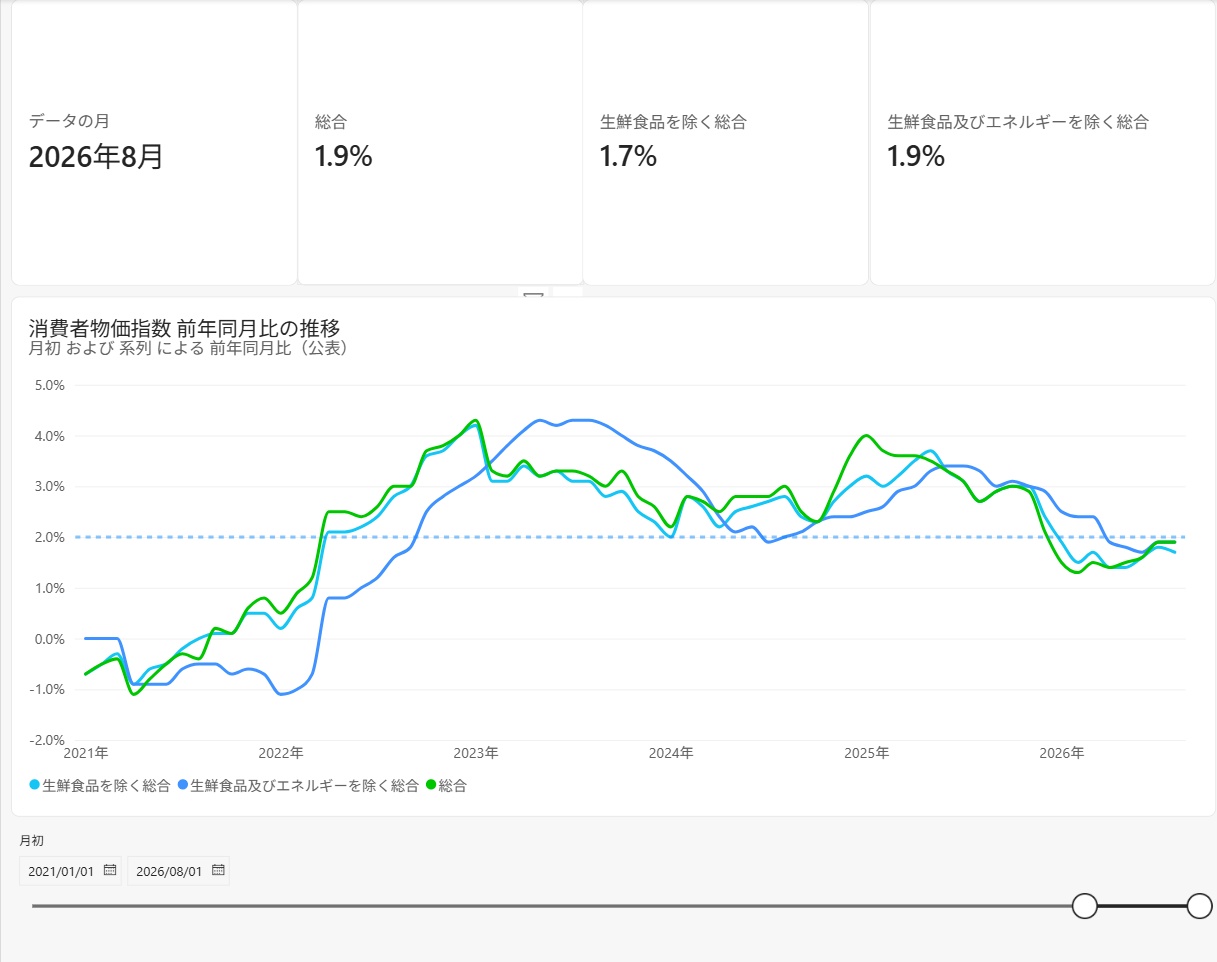
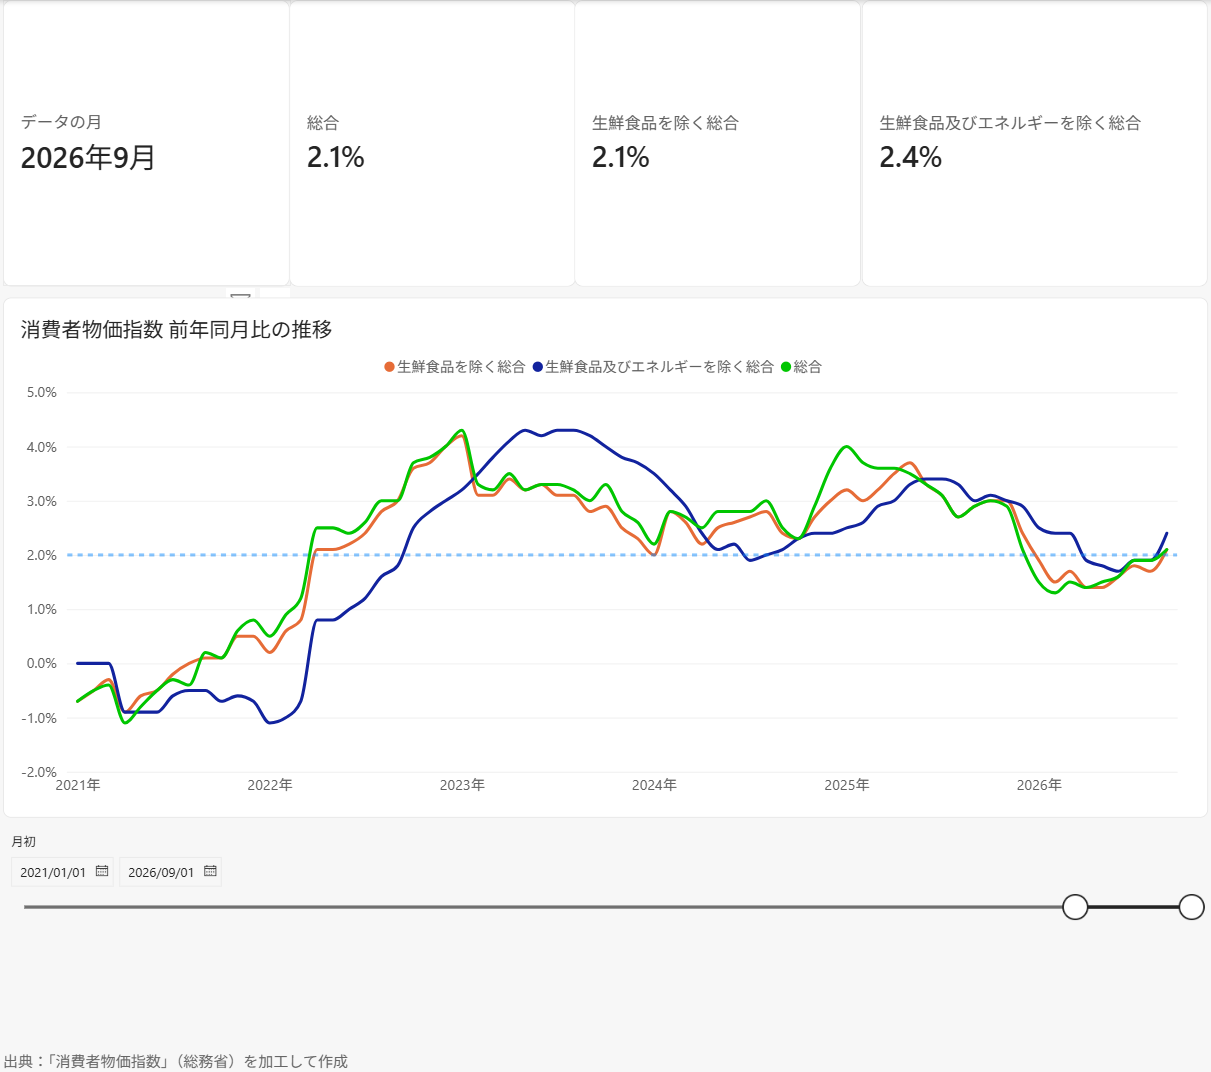
READMEと画面画像を2026年9月分に更新

diff --git a/README.md b/README.md
@@ -18,24 +18,26 @@
 
 ![何が物価を動かしたか](images/page2.png)
 
-- 最新月（2026年8月）の総合の前年同月比を、10大費目の寄与度に分解（ウォーターフォール図）
-- 2026年1月〜8月の寄与度の月次推移（積み上げ縦棒）
+- 最新月（2026年9月）の総合の前年同月比を、10大費目の寄与度に分解（ウォーターフォール図）
+- 2026年1月〜9月の寄与度の月次推移（積み上げ縦棒）
 
-### 読み取れること（2026年8月分）
+### 読み取れること（2026年9月分）
 
-- 総合の前年同月比1.9%のうち、食料の寄与が0.88ポイントで約半分を占める
-- 教育（−0.12ポイント）と光熱・水道（−0.02ポイント）は押し下げ方向に寄与
-- 2026年2月から8月にかけての上昇率の拡大は、主に光熱・水道のマイナス寄与の縮小（約−0.40 → −0.02ポイント）によるもので、交通・通信、家具・家事用品の寄与拡大も加わっている
+- 総合の前年同月比は2.1%。寄与が最も大きいのは食料（0.77ポイント）だが、8月（0.88ポイント）からは縮小した
+- 8月（1.9%）からの上昇は、教養娯楽（0.20 → 0.35ポイント）と光熱・水道（−0.02 → +0.06ポイント）の寄与拡大が中心
+- 総合指数は8月・9月とも102.2で横ばいだった。前年同月の指数が2025年8月の100.3から2025年9月の100.1に下がっていたため、前年同月比は上昇している
+- 光熱・水道の寄与は2026年2月の−0.40ポイントから9月には+0.06ポイントまで戻り、年初からの上昇率の拡大の主因になっている
+- 教育は引き続き押し下げ方向（−0.11ポイント）
 
 ## データ
 
 | ファイル | 内容 | 期間 |
 | --- | --- | --- |
-| `zmi2025s.csv` | 中分類指数（全国・月次、2025年=100） | 1970年1月〜2026年8月 |
+| `zmi2025s.csv` | 中分類指数（全国・月次、2025年=100） | 1970年1月〜2026年9月 |
 | `zmy2025s.csv` | 中分類指数の前年同月比（公表値、%） | 同上 |
 | `zmi2025b.csv` | 財・サービス分類指数（全国・月次、2025年=100）。現在のダッシュボードでは未使用 | 同上 |
 
-- 取得元：e-Stat（政府統計の総合窓口）
+- 取得元：e-Stat（政府統計の総合窓口）。2026年9月分（2026年10月23日公表）までを使用
   - zmi2025s.csv：https://www.e-stat.go.jp/stat-search/file-download?statInfId=000040482943&fileKind=1
   - zmy2025s.csv：https://www.e-stat.go.jp/stat-search/file-download?statInfId=000040482953&fileKind=1
   - zmi2025b.csv：https://www.e-stat.go.jp/stat-search/file-download?statInfId=000040482946&fileKind=1
@@ -52,8 +54,8 @@
 
 | テーブル | 種類 | 内容 |
 | --- | --- | --- |
-| `zmi2025s` | ファクト | 年月 × 系列の指数（52,188行） |
-| `zmy2025s` | ファクト | 年月 × 系列の前年同月比・公表値（51,264行） |
+| `zmi2025s` | ファクト | 年月 × 系列の指数（52,266行） |
+| `zmy2025s` | ファクト | 年月 × 系列の前年同月比・公表値（51,342行） |
 | `日付` | ディメンション | 1970年1月1日〜最新月末の日付テーブル（日付テーブルとしてマーク） |
 | `系列マスタ` | ディメンション | 78系列。ウエイト（1万分比）と区分（10大費目／その他）を持つ |
 | `ウエイト表` | 補助 | CSVのウエイト行から作成。`系列マスタ[ウエイト]` の参照元 |
@@ -112,17 +114,19 @@ RETURN
 
 | 確認内容 | 結果 |
 | --- | --- |
-| 指数テーブルの行数・月数 | 52,188行、680か月（1970年1月〜2026年8月） |
-| 日付テーブルの行数 | 20,697日 |
+| 指数テーブルの行数・月数 | 52,266行、681か月（1970年1月〜2026年9月） |
+| 日付テーブルの行数 | 20,727日 |
+| 最新月のカード | 総合2.1%、生鮮食品を除く総合2.1%、生鮮食品及びエネルギーを除く総合2.4%で、総務省の公表値と一致 |
 | 自作の前年同月比（2026年8月・78系列） | Python で同じ計算をした結果と78系列すべて一致。公表値とは58系列が一致し、残りも差は0.1ポイント以内 |
-| 寄与度（2026年8月・10大費目） | Python の計算と10費目すべて一致。総務省公表の寄与度との差は0.02ポイント以内 |
-| 寄与度の合計 | 2026年8月は1.91%（公表の総合1.9%と整合）。2026年1月〜8月の各月合計も公表の総合の前年同月比と整合 |
+| 寄与度（2026年9月・10大費目） | Python の計算と10費目すべて一致。総務省公表の寄与度との差は各費目0.01ポイント以内 |
+| 寄与度の合計 | 2026年9月は2.16%で、総務省公表の寄与度の合計（2.16）と一致。2026年1月〜9月の各月合計も公表の総合の前年同月比と整合 |
+| データ更新 | 2026年9月分のCSVに差し替えて更新するだけで、既存の月の値は変わらず、9月分（78系列）が追加されることを確認 |
 
 ## 注意点
 
 - 寄与度は2025年基準のウエイトを使うため、当月・前年同月がともに2025年基準の指数となる2026年1月以降を対象にしています
 - 自作の前年同月比は公表指数（小数第1位）から計算するため、公表値と0.1ポイント程度ずれることがあります。そのため、1ページ目のカードとグラフは公表値を表示しています
-- 10大費目のウエイトの合計は四捨五入の関係で10002となり、寄与度の合計は総合の前年同月比とわずかにずれることがあります
+- 指数やウエイトの四捨五入の影響で、寄与度の合計は総合の前年同月比とわずかにずれることがあります（2026年9月分は寄与度の合計2.16に対し、公表の前年同月比は2.1%）
 
 ## 開き方
 
@@ -131,6 +135,8 @@ RETURN
 3. `cpi-dashboard.pbip` を開く
 4. 「ホーム」→「データの変換」→「パラメーターの編集」で、`DataFolder` に `data` フォルダーのパスを入力（末尾に `\` を付ける）
 5. 「更新」を押す
+
+毎月の更新は、新しいCSVを `data` フォルダーに上書きして「更新」を押すだけです。1ページ目の期間スライサーは開始日（2021年1月）だけを固定しているため、終点は自動で最新月まで伸びます。
 
 ## フォルダー構成
 
